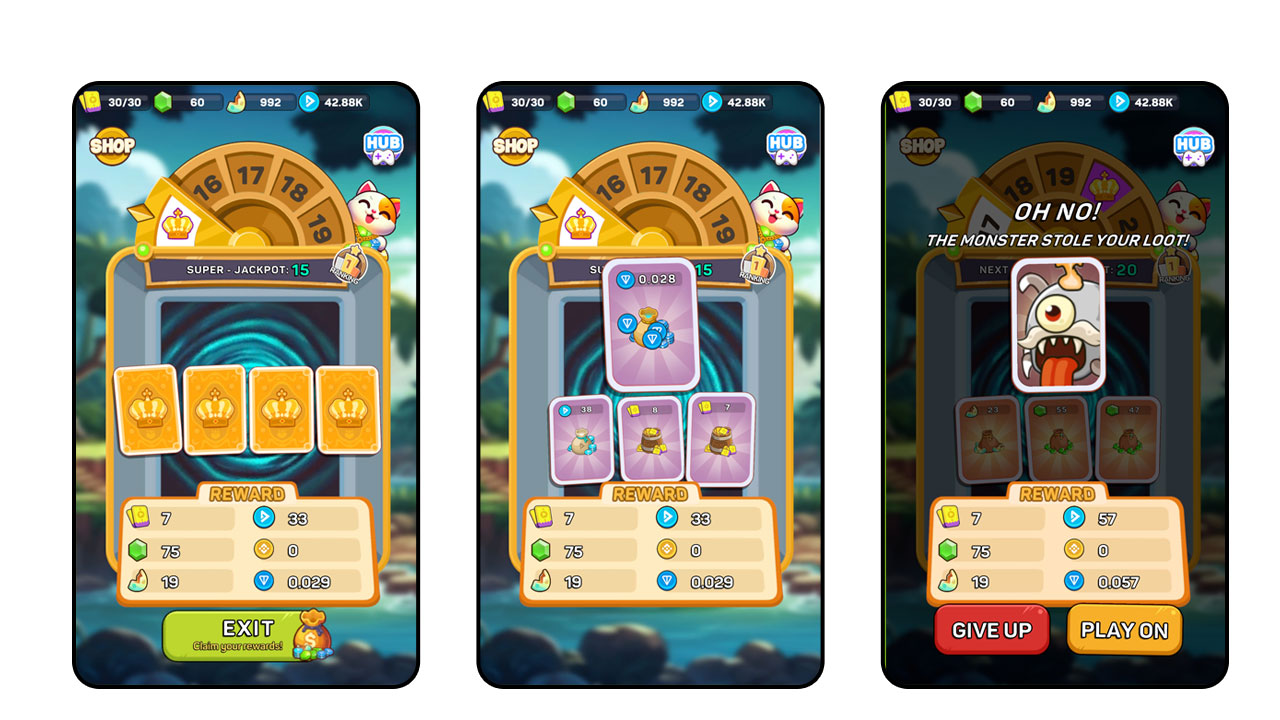
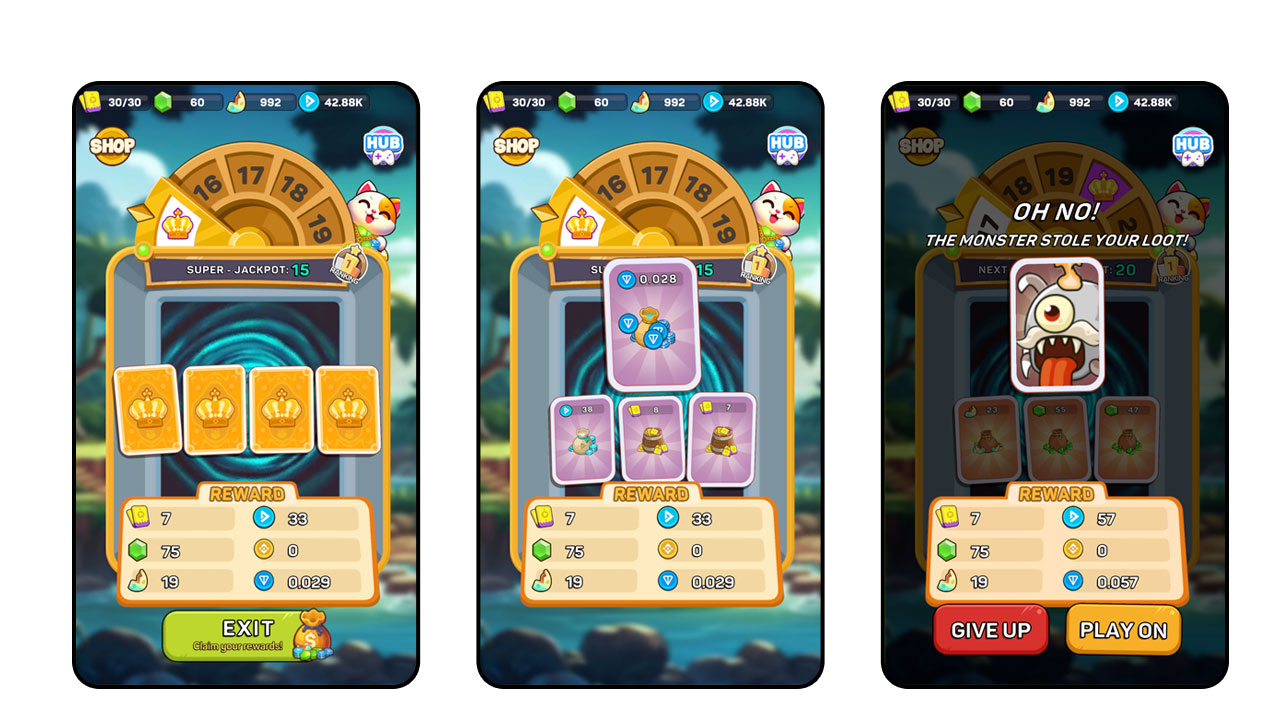
GITBOOK-24: No subject

diff --git a/cat-lucky/README.md b/cat-lucky/README.md
@@ -6,4 +6,4 @@ description: Lucky game to earn more rewards!
 
 Earn greater rewards with each new floor! Beware of lurking monsters, always ready to steal your winnings. You can collect rewards at any time and exit the game whenever you choose. Each play costs 10 tickets and earns points. Plus, you recover 1 free ticket every hour, with a maximum of 30 tickets available. Dive into the game and uncover exciting surprises!
 
-<figure><img src="../.gitbook/assets/cat-lucky.jpg" alt=""><figcaption><p>Cat Lucky Gameplay</p></figcaption></figure>
+<figure><img src="broken-reference" alt=""><figcaption><p>Cat Lucky Gameplay</p></figcaption></figure>

diff --git a/SUMMARY.md b/SUMMARY.md
@@ -17,6 +17,7 @@
   * [🏆 Trophy Rank](cat-challenge/trophy-rank.md)
   * [🥇 PvP League](cat-challenge/pvp-league.md)
 * [🎰 CAT LUCKY](cat-lucky/README.md)
+  * [Gameplay](cat-lucky/gameplay.md)
   * [🎁 Rewards](cat-lucky/rewards.md)
   * [💯 Score Rank](cat-lucky/score-rank.md)
 * [💸 CAT NFTs](cat-nfts.md)

diff --git a/cat-lucky/gameplay.md b/cat-lucky/gameplay.md
@@ -1,0 +1,3 @@
+# Gameplay
+
+<figure><img src="../.gitbook/assets/cat-lucky.jpg" alt=""><figcaption></figcaption></figure>
